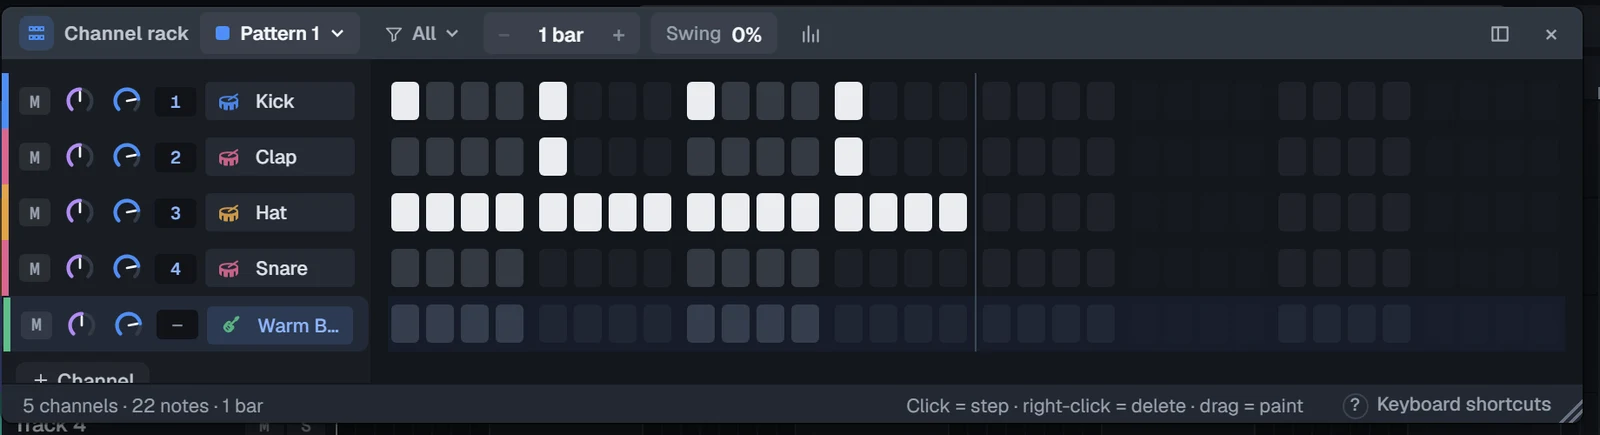
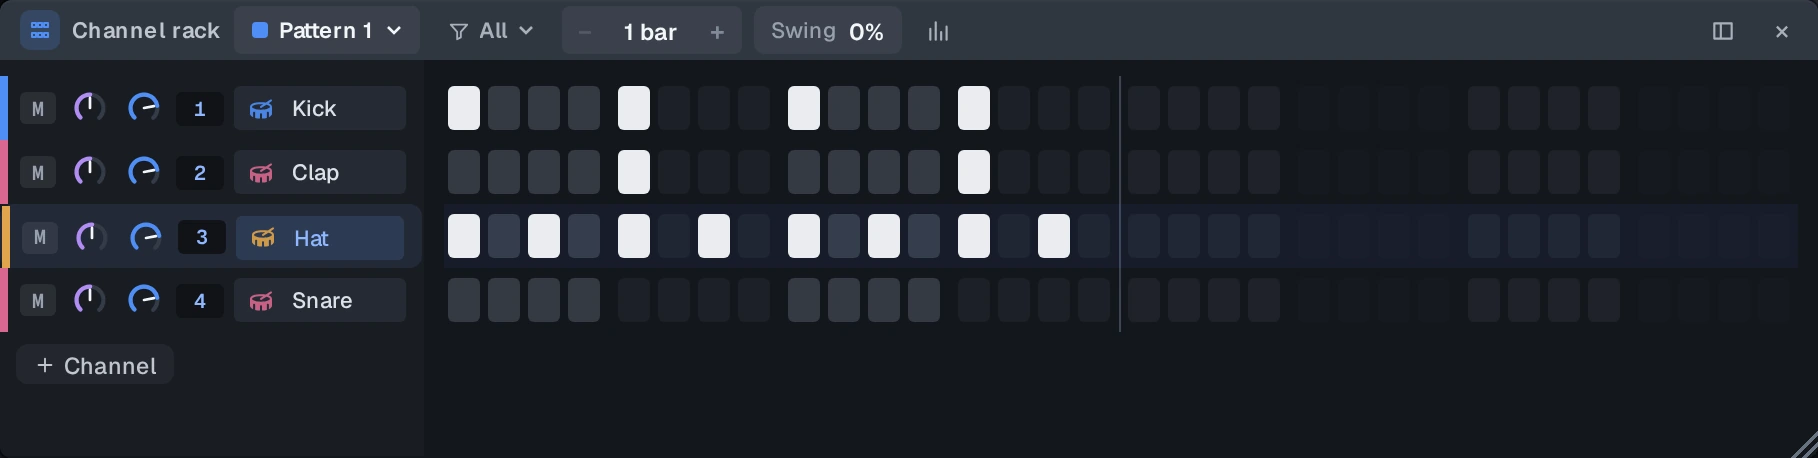
Show the exact drum pattern from the first-song lesson

diff --git a/site/docs/first-song.html b/site/docs/first-song.html
@@ -69,8 +69,7 @@
             <li>Select <strong>PAT</strong> and press <kbd>Space</kbd> to start or stop the loop.</li>
           </ol>
           <figure>
-            <a class="shot" href="images/rack.webp"><img src="images/rack.webp" width="1600" height="435" alt="Channel Rack with rows for Kick, Clap, Hat, Snare, and a synth, and lit squares marking active steps." loading="lazy"></a>
-            <figcaption>Channel Rack with a different drum pattern.</figcaption>
+            <a class="shot" href="images/rack.webp"><img src="images/rack.webp" width="1818" height="458" alt="Channel Rack showing the lesson’s one-bar drum pattern. Kick is lit on steps 1, 5, 9 and 13, Clap on 5 and 13, and Hat on every odd step. Snare is empty." loading="lazy"></a>
           </figure>
           <div class="drum-example" data-drums hidden>
             <div class="controls">

diff --git a/site/docs/README.md b/site/docs/README.md
@@ -10,8 +10,10 @@ select `site/docs` as the project root.
 
 ## Screenshots
 
-- `overview.webp`, `rack.webp` and `mixer.webp` are desktop screenshots from the
+- `overview.webp` and `mixer.webp` are desktop screenshots from the
   [Synkopa UX audit](https://github.com/miskibin/synkopa/pull/302) before the proposed changes.
+- `rack.webp` shows the first-song drum pattern entered through Synkopa’s Channel Rack
+  in browser development mode at `aa7215f`.
 - `roll.webp` and `export.webp` show the actual Synkopa frontend with the built-in
   OBSIDIAN 2093 demo, captured using the repository's browser development mode at
   `aa7215f`. Development mode uses the browser mock backend.
